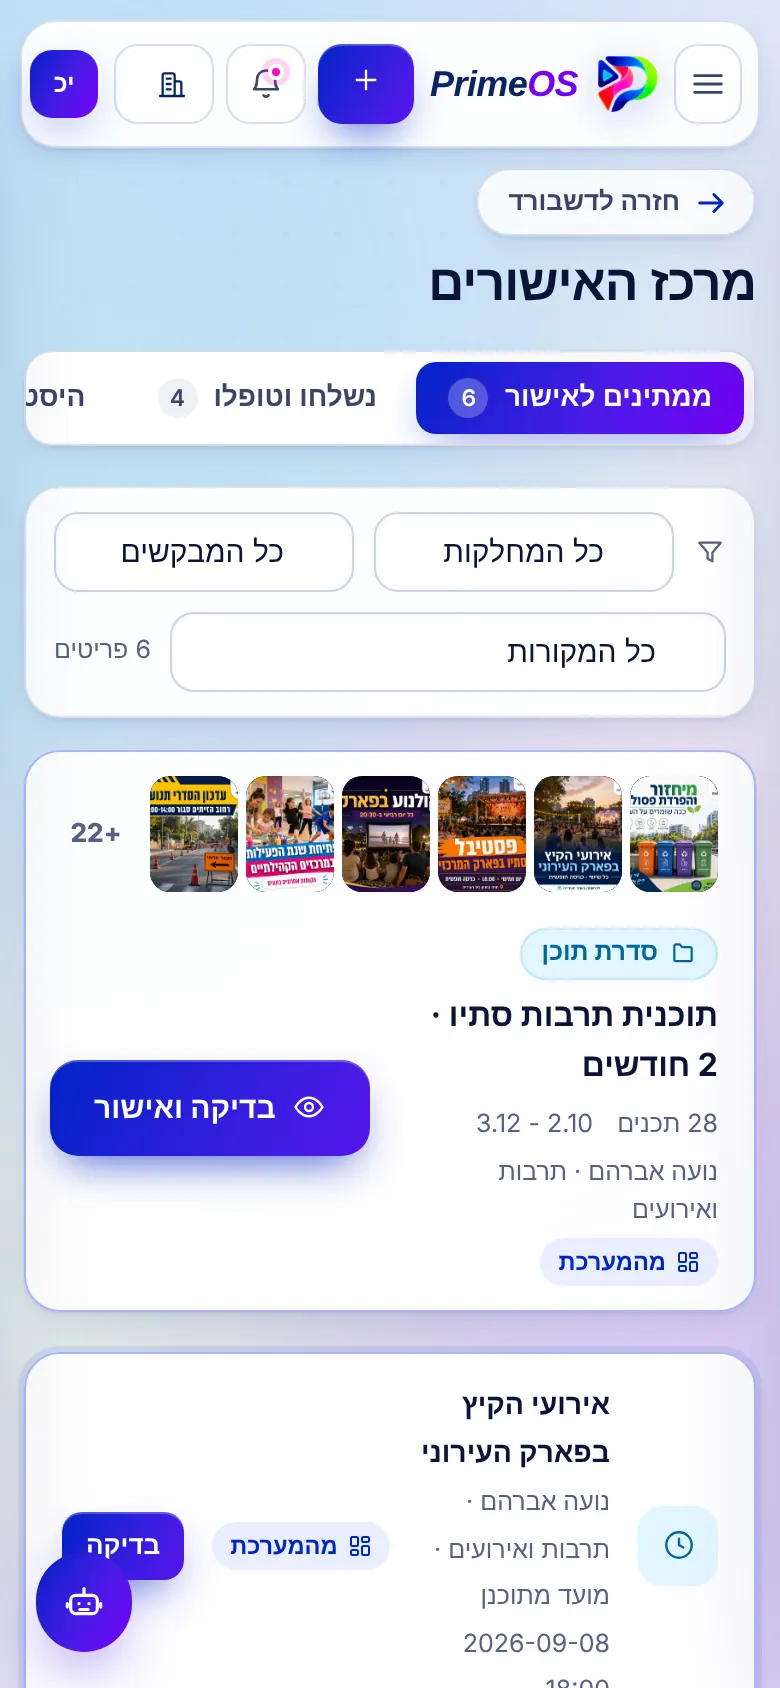
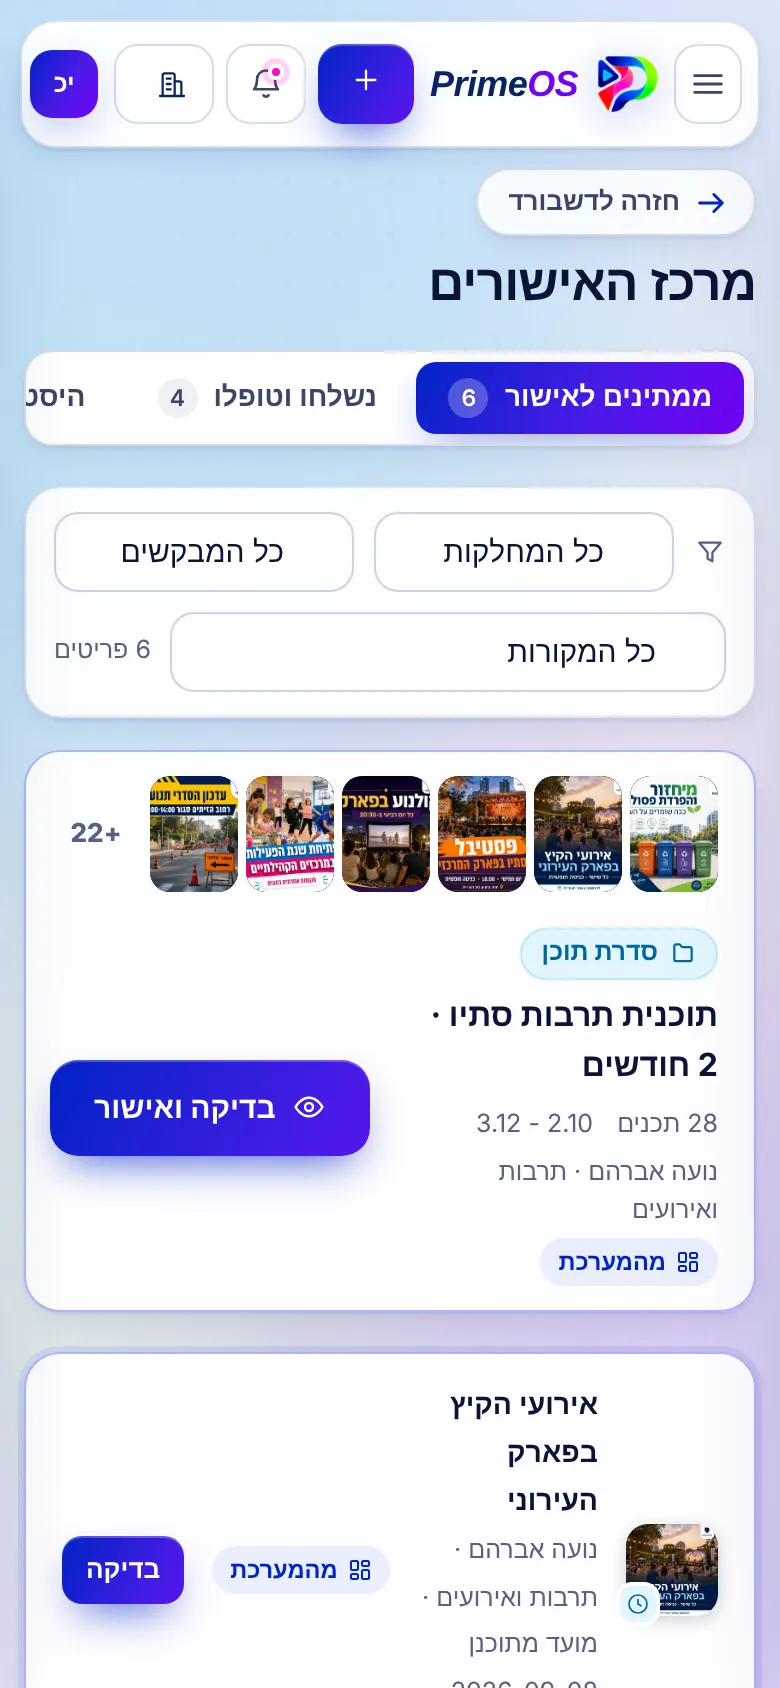
Real thumbnails in list rows and calendar across all screenshots; hero card shows the post
Claude-Session: https://claude.ai/code/session_01GRjkeMGbDZMX2tR6wygDPn

diff --git a/index.html b/index.html
@@ -49,7 +49,7 @@
  <div class="stage rv d2">
   <div class="browser"><div class="browser-bar"><i></i><i></i><i></i><span>app.primeos.co.il</span></div><img src="assets/shots/dashboard.webp" alt="דשבורד PrimeOS: פריטים שממתינים לאישור, טיוטות, פרסומים קרובים ופריטים שדורשים טיפול" width="1600" height="1000" fetchpriority="high" decoding="async"></div>
   <div class="phone"><img src="assets/shots/m-approvals.webp" alt="מרכז האישורים של PrimeOS בטלפון" width="780" height="1688" loading="lazy" decoding="async"></div>
-  <div class="float-note"><span class="dot"><svg viewBox="0 0 24 24" fill="none" stroke="currentColor" stroke-width="1.8" stroke-linecap="round" stroke-linejoin="round" aria-hidden="true" focusable="false"><path d="M20 6 9 17l-5-5"/></svg></span><span><b>אושר על ידי הדוברות</b>מתוזמן לפרסום ב-18:00</span></div>
+  <div class="float-note"><img class="fn-th" src="assets/examples/g-festival-s.webp" alt="" width="46" height="46" loading="lazy" decoding="async"><span class="dot"><svg viewBox="0 0 24 24" fill="none" stroke="currentColor" stroke-width="1.8" stroke-linecap="round" stroke-linejoin="round" aria-hidden="true" focusable="false"><path d="M20 6 9 17l-5-5"/></svg></span><span><b>אושר על ידי הדוברות</b>פסטיבל הסתיו · מתוזמן ל-18:00</span></div>
  </div>
 </div></section>
 <section class="sec-tight"><div class="wrap">

diff --git a/site.css b/site.css
@@ -410,3 +410,7 @@ p{margin:0}
 @media (max-width:980px) and (min-width:561px){.xg-grid[data-type="graphic"]{grid-template-columns:repeat(4,minmax(0,1fr))}}
 
 .contact-line a,.foot a[href^="mailto"],.form-done a[href^="mailto"]{overflow-wrap:anywhere}
+.float-note{max-width:300px}
+.float-note .fn-th{width:46px;height:46px;border-radius:10px;object-fit:cover;flex:none;box-shadow:0 2px 8px rgba(11,20,55,.2)}
+.float-note .fn-th+.dot{position:absolute;right:46px;bottom:4px;width:22px;height:22px;border-radius:8px;border:2px solid #fff}
+.float-note .fn-th+.dot svg{width:12px;height:12px}
